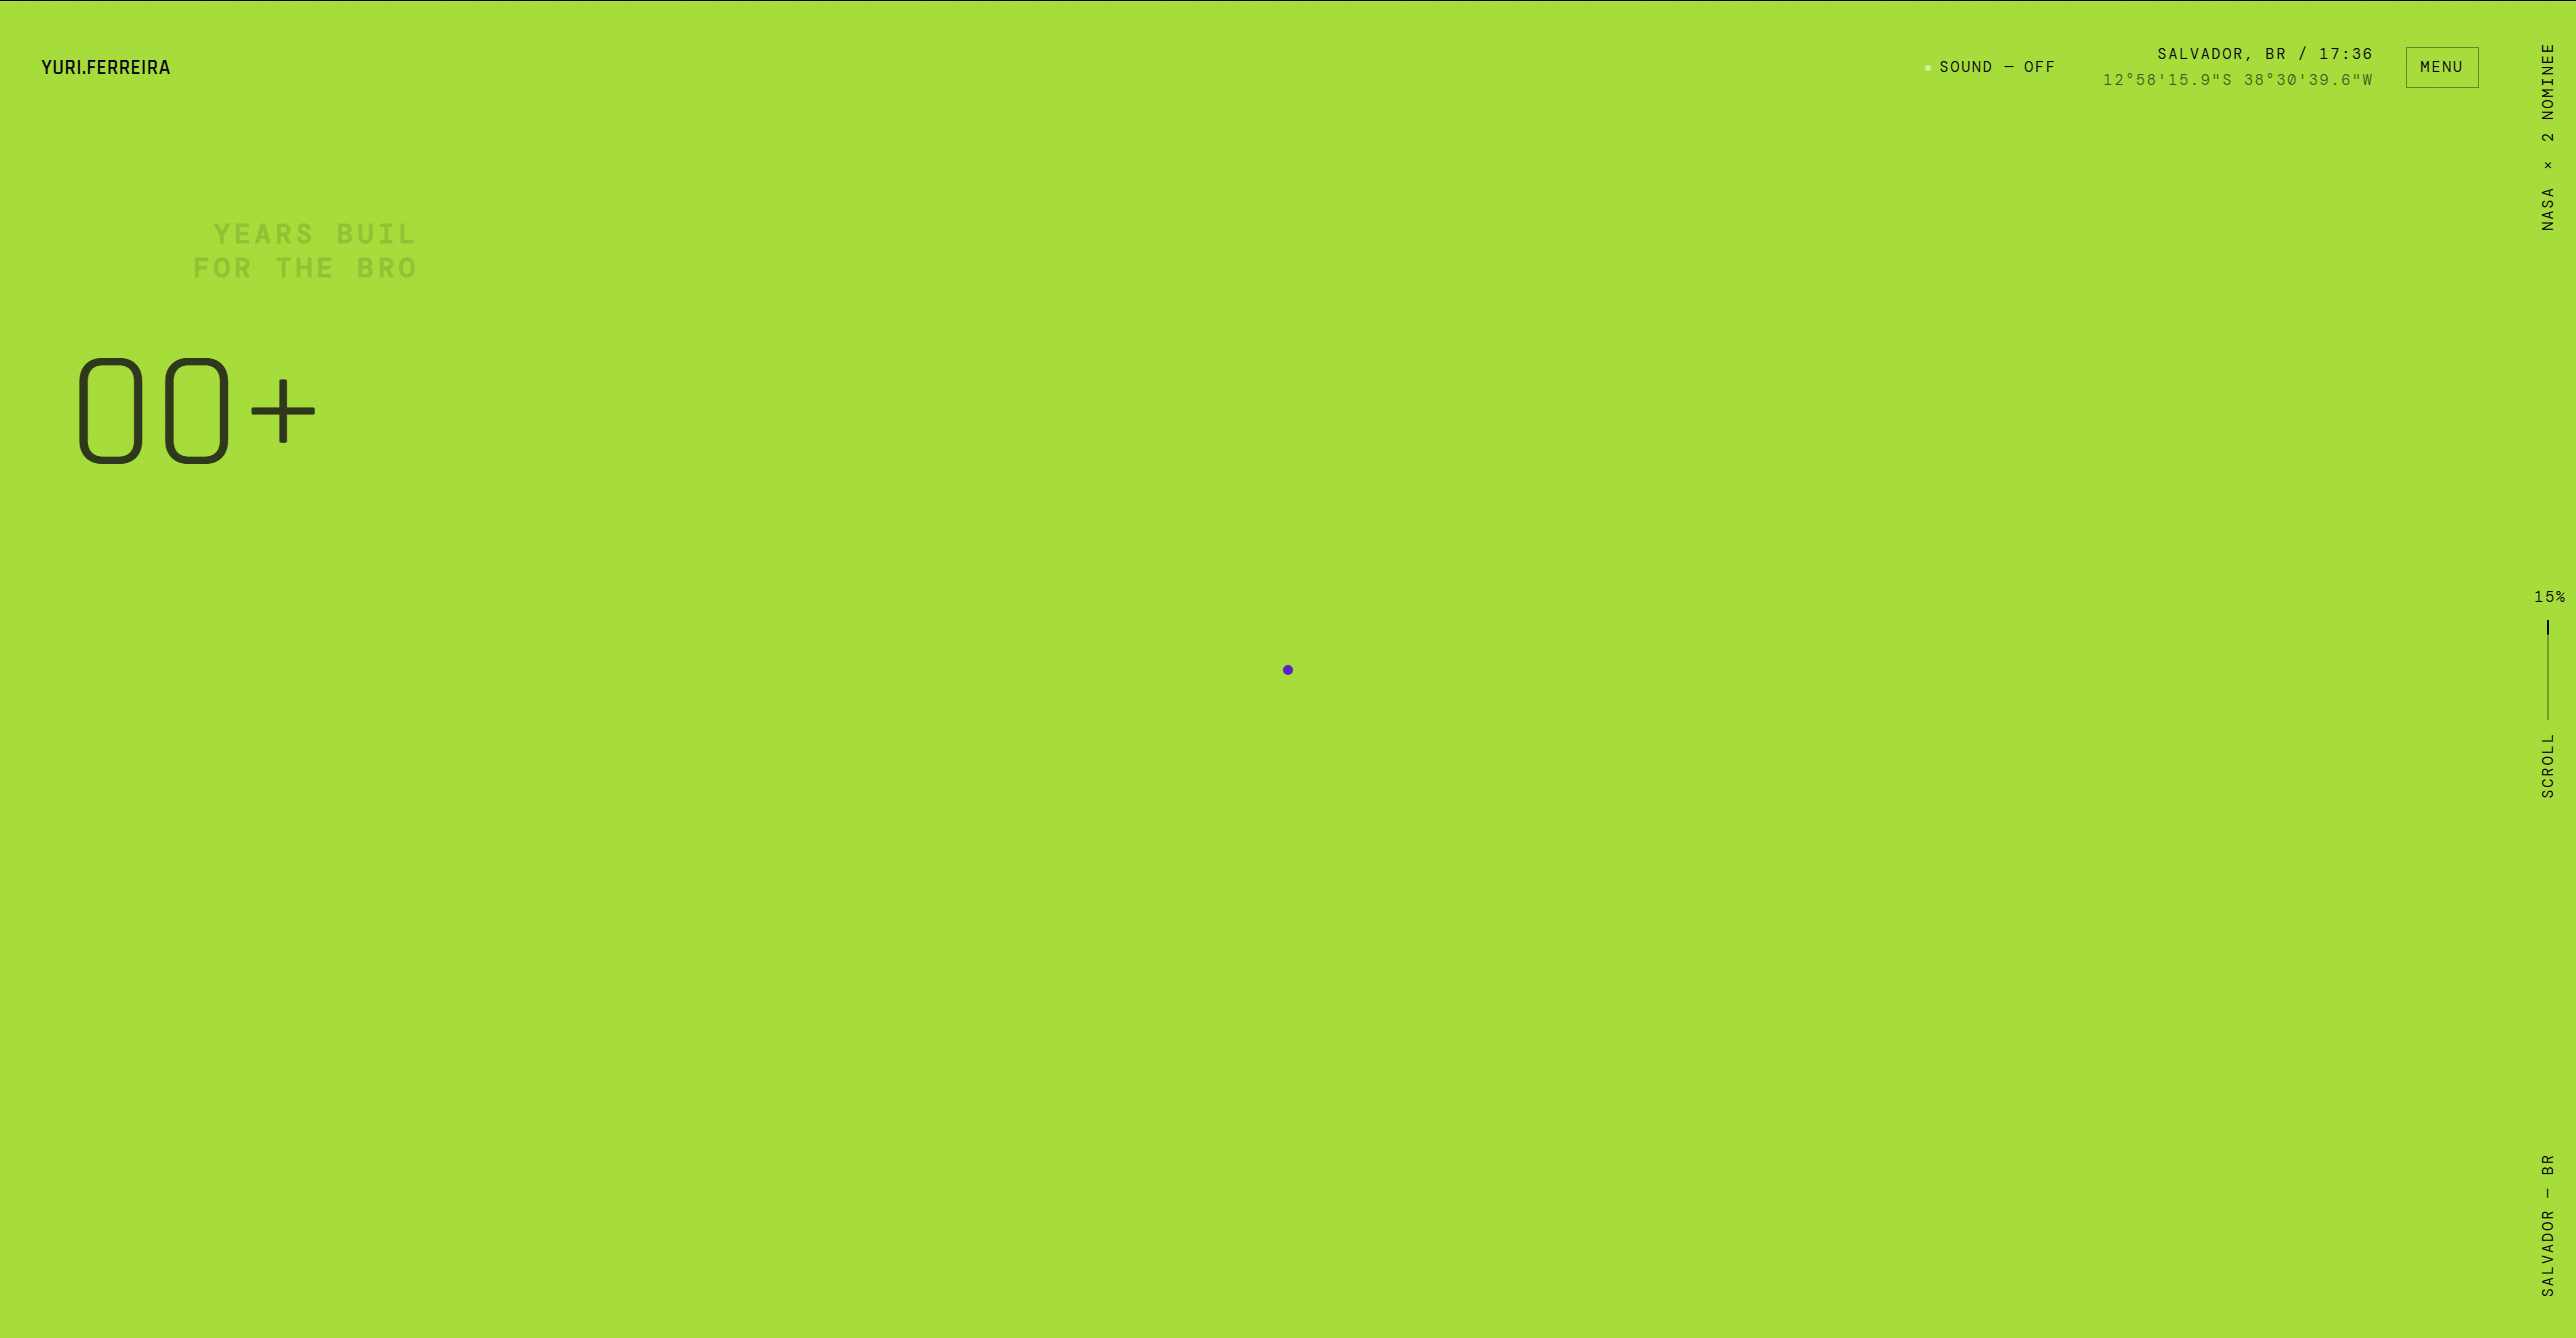
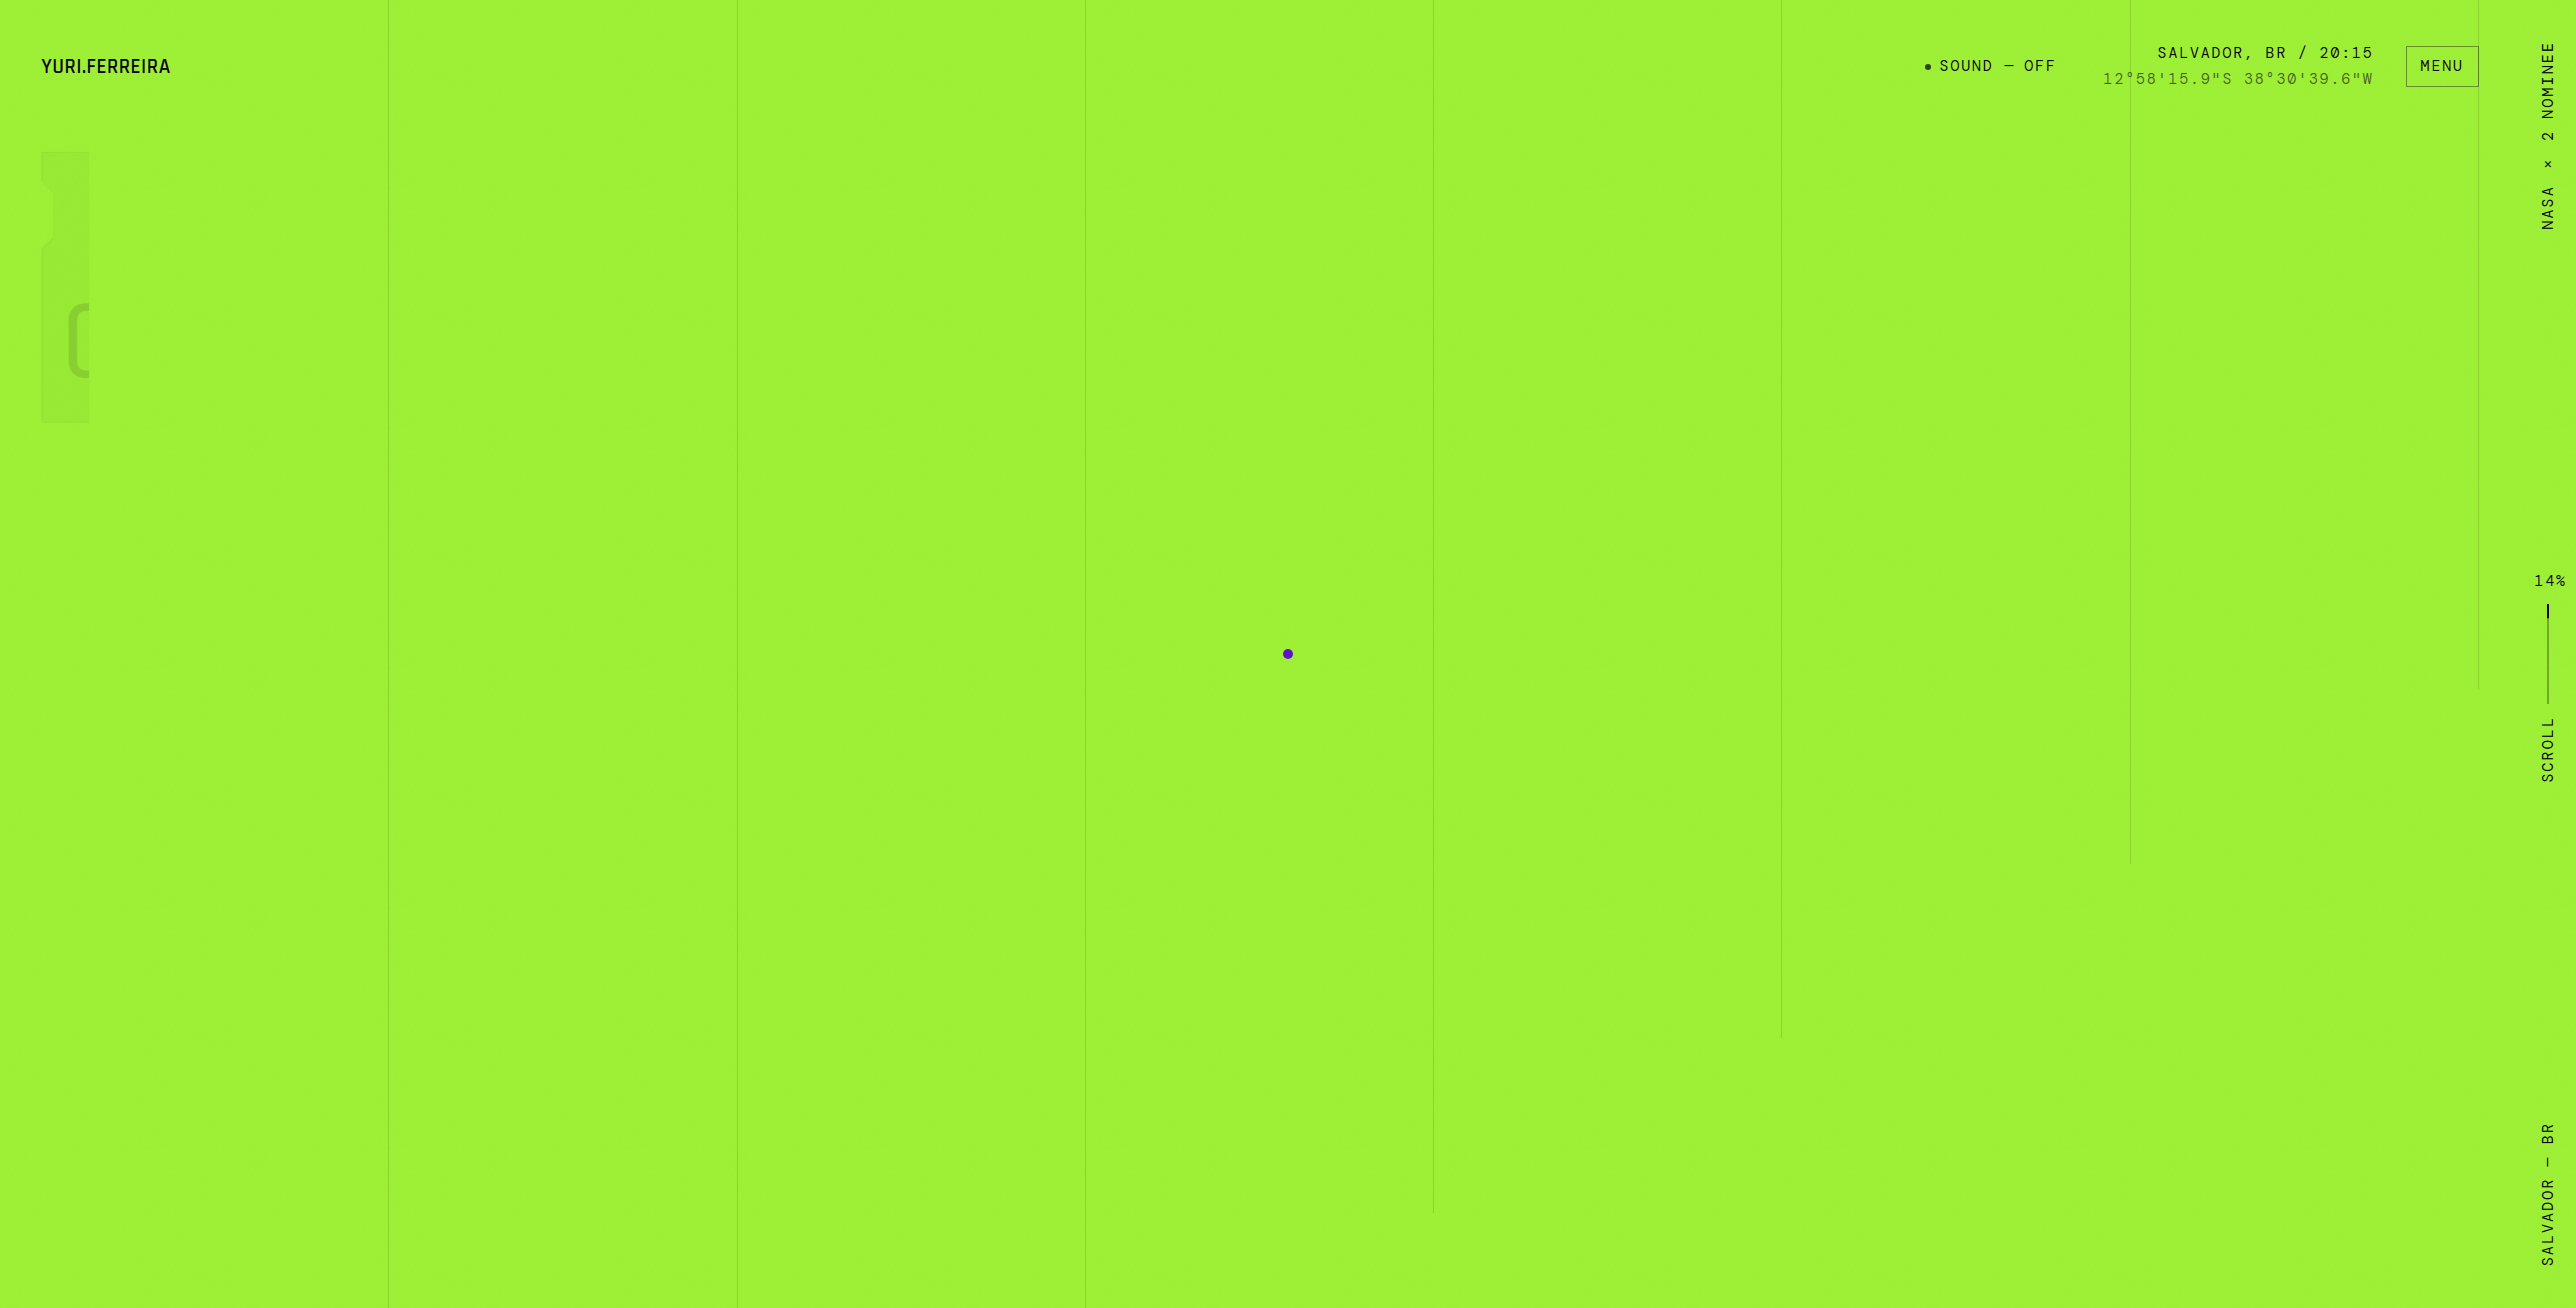
fix(snap): hide next-scene content during lime exit (28.5-30%)
At 29% the lime wipe retracts and reveals the snap frame beneath,
but snap's heading/labels/viewAll sat at natural CSS (visible)
until their tweens at 30.5% — unanimated content leaking through.

Fix: tl.set() the hidden state on ALL snap content at 0.285 (the
instant the frame becomes visible under the wipe): cards
opacity 0 + scale 0.72 + y 110, card metas opacity 0, connectors
dashoffset 1, labels opacity 0, heading chars yPercent 120 (clipped
by overflow-hidden wrappers), viewAll yPercent 130.

fromTo tweens positioned later in a scrubbed timeline don't apply
their 'from' before the playhead reaches them — the pre-tween gap
was the bug.

diff --git a/src/scripts/flipbook.ts b/src/scripts/flipbook.ts
@@ -240,7 +240,25 @@ export function initFlipbook() {
   /* ============ SNAP — the lime flipbook of cards ============ */
   const cards = [...snapFrame.querySelectorAll<HTMLElement>('[data-snap-card]')];
   const connectors = [...snapFrame.querySelectorAll<SVGLineElement>('[data-connector]')];
+  /* snap appears under the lime wipe at 0.285 — its content must be
+     HIDDEN from that instant until each element's entry window.
+     fromTo tweens positioned later don't apply their "from" before
+     the playhead reaches them, leaving natural CSS = visible */
   tl.set(snapFrame, { autoAlpha: 1 }, 0.285);
+  cards.forEach((card) => {
+    tl.set(card, { opacity: 0, scale: 0.72, x: 0, y: 110 }, 0.285);
+    card.querySelectorAll('[data-card-meta]').forEach((m) => {
+      tl.set(m, { opacity: 0, y: 22 }, 0.285);
+    });
+  });
+  connectors.forEach((line) => {
+    tl.set(line, { strokeDashoffset: 1 }, 0.285);
+  });
+  tl.set('[data-snap-label]', { opacity: 0 }, 0.285);
+  tl.set('[data-snap-viewall]', { yPercent: 130 }, 0.285);
+  if (snapHeadChars.length) {
+    tl.set(snapHeadChars, { yPercent: 120 }, 0.285);
+  }
   tl.fromTo('[data-snap-label]', { opacity: 0 }, { opacity: 1, stagger: 0.012, duration: 0.025 }, 0.305);
   if (snapHeadChars.length) {
     tl.fromTo(snapHeadChars, { yPercent: 120 }, { yPercent: 0, stagger: 0.012, duration: 0.045 }, 0.31);
